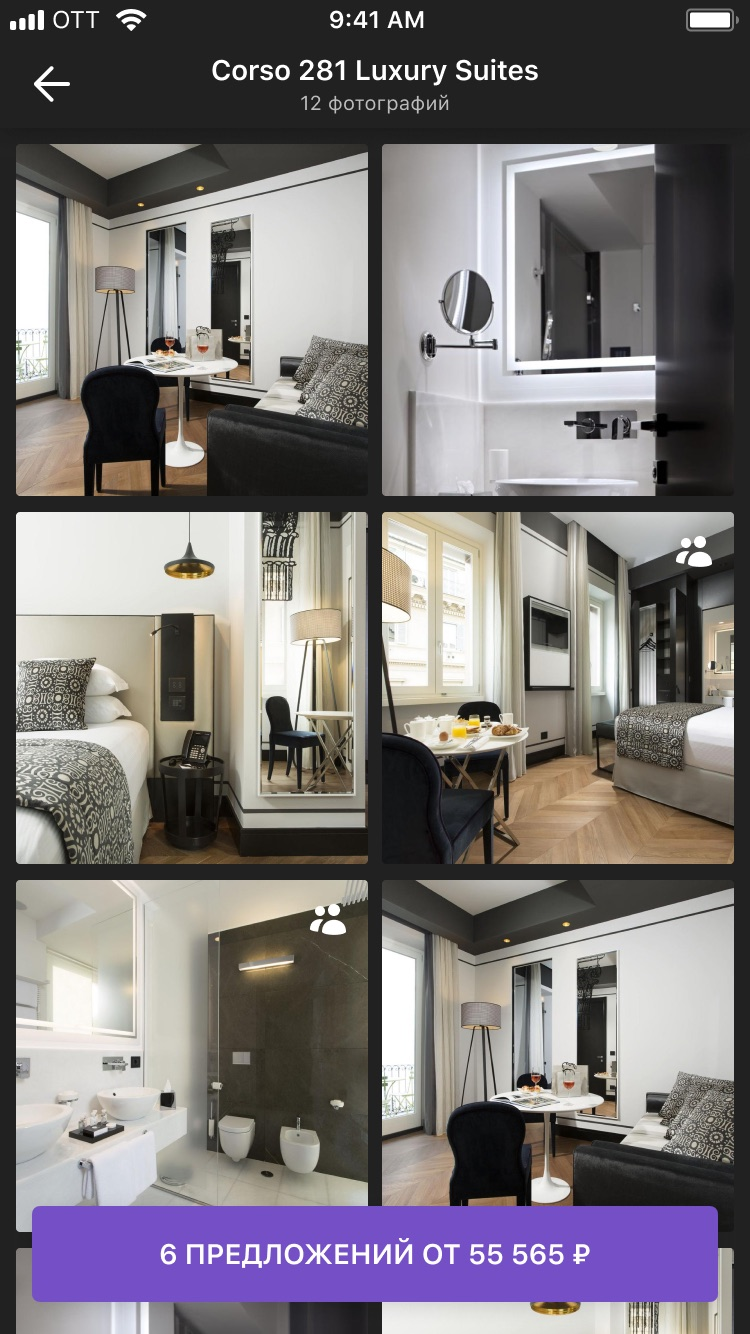
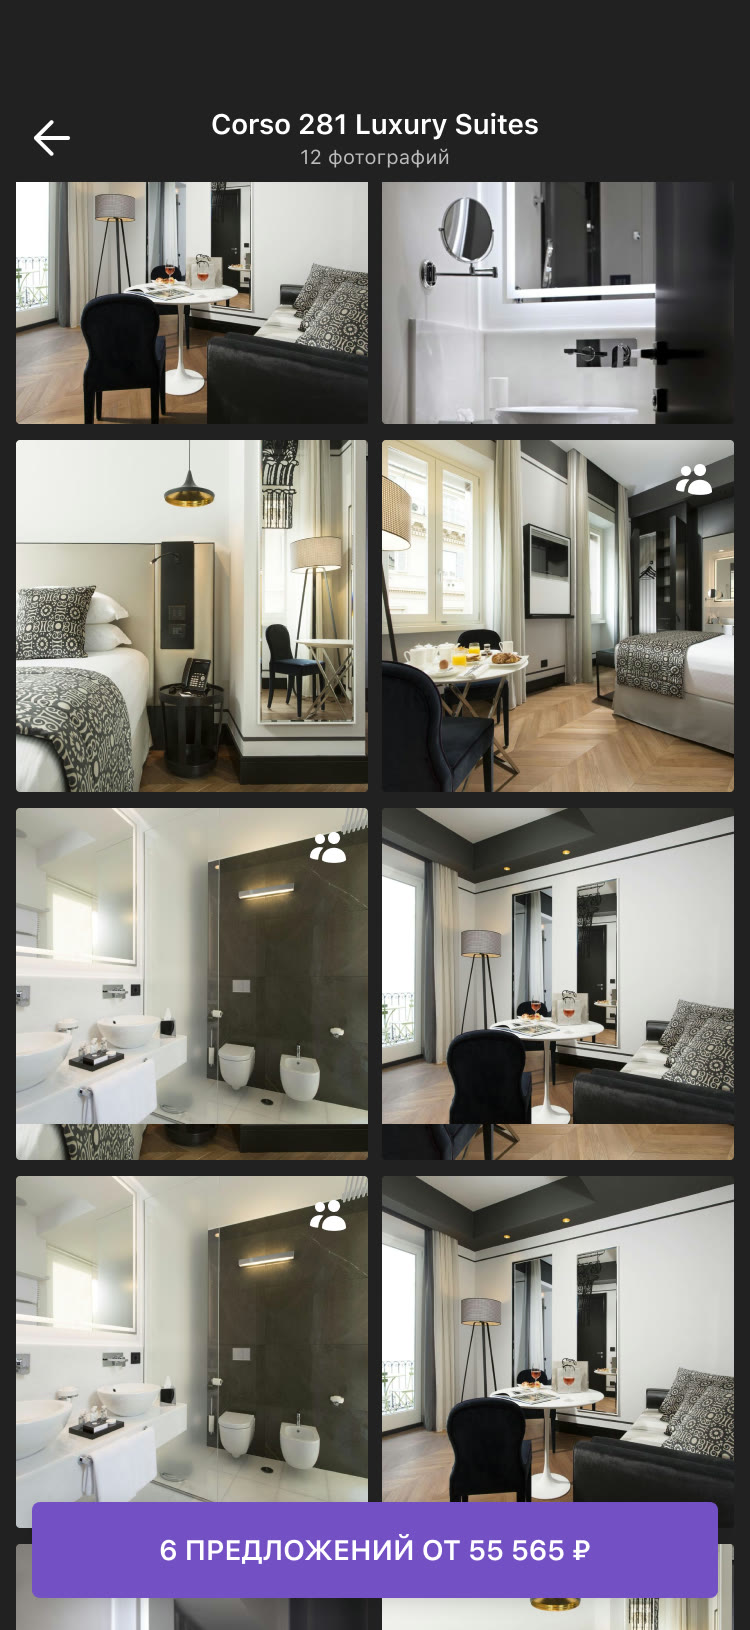
OTT old screens fit a modern phone frame
- Old iPhone 8 screens lose their 20pt status bar; a 47pt strip in the nav
  colour takes its place, so the island no longer covers the titles
- Old gallery and photo screens stretched to full height: the button and
  the "Фото от гостей" pill sit at the bottom, letterboxing removed

diff --git a/index.html b/index.html
@@ -18,7 +18,7 @@
   <meta name="twitter:card" content="summary_large_image">
   <link rel="icon" type="image/png" href="favicon.png">
   <link rel="apple-touch-icon" href="favicon.png">
-  <link rel="stylesheet" href="assets/site.css?v=20261122-1429">
+  <link rel="stylesheet" href="assets/site.css?v=20261122-1440">
 </head>
 <body>
   <!-- «работающего продукта» drawn from Caveat Bold outlines: looks the same everywhere, no font to wait for -->
@@ -870,8 +870,8 @@
       <div class="gc-row"><figure class="gc-item"><div class="uic-phone gc-phone ott-phone"><img loading="lazy" src="cases/ott/old-serp.jpg" alt="Выдача, было"></div><figcaption>Выдача&nbsp;· было</figcaption></figure><figure class="gc-item"><div class="uic-phone gc-phone ott-phone"><img loading="lazy" src="cases/ott/new-serp.jpg" alt="Выдача, стало"></div><figcaption>Выдача&nbsp;· стало</figcaption></figure></div>
       <div class="gc-row"><figure class="gc-item"><div class="uic-phone gc-phone ott-phone"><img loading="lazy" src="cases/ott/old-filters.jpg" alt="Фильтры, было"></div><figcaption>Фильтры&nbsp;· было</figcaption></figure><figure class="gc-item"><div class="uic-phone gc-phone ott-phone"><img loading="lazy" src="cases/ott/new-filters.jpg" alt="Фильтры, стало"></div><figcaption>Фильтры&nbsp;· стало</figcaption></figure></div>
       <div class="gc-row"><figure class="gc-item"><div class="uic-phone gc-phone ott-phone"><img loading="lazy" src="cases/ott/old-room.jpg" alt="Номер, было"></div><figcaption>Номер&nbsp;· было</figcaption></figure><figure class="gc-item"><div class="uic-phone gc-phone ott-phone"><img loading="lazy" src="cases/ott/new-room.jpg" alt="Номер, стало"></div><figcaption>Номер&nbsp;· стало</figcaption></figure></div>
-      <div class="gc-row"><figure class="gc-item"><div class="uic-phone gc-phone ott-phone ott-short"><img loading="lazy" src="cases/ott/old-gallery.jpg" alt="Галерея, было"></div><figcaption>Галерея&nbsp;· было</figcaption></figure><figure class="gc-item"><div class="uic-phone gc-phone ott-phone"><img loading="lazy" src="cases/ott/new-gallery.jpg" alt="Галерея, стало"></div><figcaption>Галерея&nbsp;· стало</figcaption></figure></div>
-      <div class="gc-row"><figure class="gc-item"><div class="uic-phone gc-phone ott-phone ott-short"><img loading="lazy" src="cases/ott/old-photo.jpg" alt="Фото, было"></div><figcaption>Фото&nbsp;· было</figcaption></figure><figure class="gc-item"><div class="uic-phone gc-phone ott-phone"><img loading="lazy" src="cases/ott/new-photo.jpg" alt="Фото, стало"></div><figcaption>Фото&nbsp;· стало</figcaption></figure></div>
+      <div class="gc-row"><figure class="gc-item"><div class="uic-phone gc-phone ott-phone"><img loading="lazy" src="cases/ott/old-gallery.jpg" alt="Галерея, было"></div><figcaption>Галерея&nbsp;· было</figcaption></figure><figure class="gc-item"><div class="uic-phone gc-phone ott-phone"><img loading="lazy" src="cases/ott/new-gallery.jpg" alt="Галерея, стало"></div><figcaption>Галерея&nbsp;· стало</figcaption></figure></div>
+      <div class="gc-row"><figure class="gc-item"><div class="uic-phone gc-phone ott-phone"><img loading="lazy" src="cases/ott/old-photo.jpg" alt="Фото, было"></div><figcaption>Фото&nbsp;· было</figcaption></figure><figure class="gc-item"><div class="uic-phone gc-phone ott-phone"><img loading="lazy" src="cases/ott/new-photo.jpg" alt="Фото, стало"></div><figcaption>Фото&nbsp;· стало</figcaption></figure></div>
       <div class="gc-row"><figure class="gc-item"><div class="uic-phone gc-phone ott-phone"><img loading="lazy" src="cases/ott/old-order.jpg" alt="Заказ, было"></div><figcaption>Заказ&nbsp;· было</figcaption></figure><figure class="gc-item"><div class="uic-phone gc-phone ott-phone"><img loading="lazy" src="cases/ott/new-order.jpg" alt="Заказ, стало"></div><figcaption>Заказ&nbsp;· стало</figcaption></figure></div>
 
       <section class="ca-section" data-toc="problem" data-toc-label="Проблема">
@@ -1071,7 +1071,7 @@
     </article>
   </template>
 
-  <script src="assets/site.js?v=20261122-1429"></script>
-  <script src="assets/proto.js?v=20261122-1429"></script>
+  <script src="assets/site.js?v=20261122-1440"></script>
+  <script src="assets/proto.js?v=20261122-1440"></script>
 </body>
 </html>

diff --git a/assets/site.css b/assets/site.css
@@ -2402,7 +2402,6 @@ html.light .vc { --vc-accent: #E4572E; }
 .ott-case .ca-figure + .ca-section, .ott-case .gc-row + .ca-section { margin-top: 72px; }
 .ott-case .gc-row { margin: 32px auto; }
 .ott-phone img { object-position: top; }
-.ott-short img { object-fit: contain; background: #222; }
 .ott-case .ca-section.ott-attached { margin-top: 32px; }
 @media (max-width: 680px) {
   .ott-case .ca-figure + .ca-section, .ott-case .gc-row + .ca-section { margin-top: 56px; }
